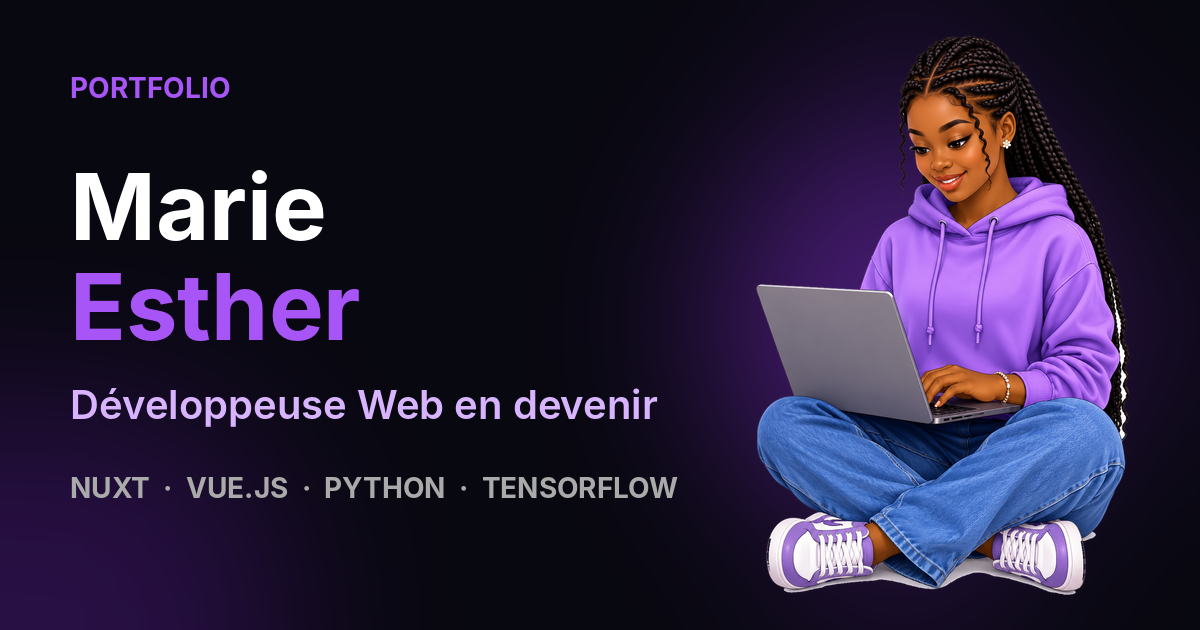
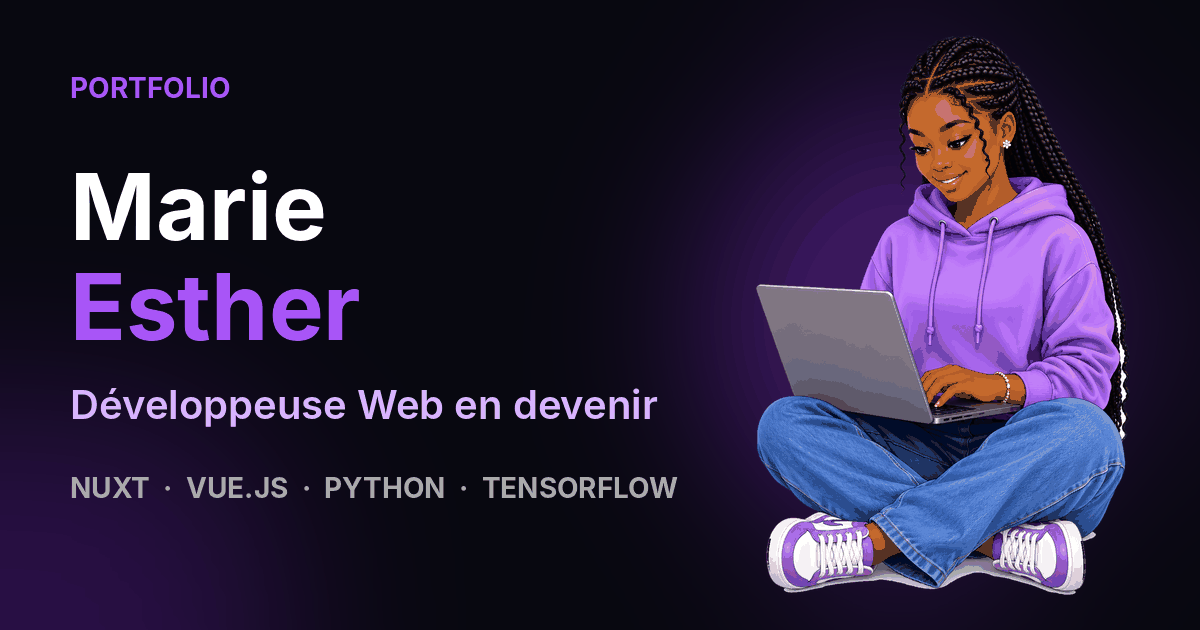
Image d'aperçu allégée

diff --git a/style.css b/style.css
@@ -1,3 +1,5 @@
+@import url('https://fonts.googleapis.com/css2?family=Kaushan+Script&display=swap');
+
 /* RÉINITIALISATION */
 * {
     margin: 0;
@@ -44,6 +46,7 @@ header {
     display: flex;
     gap: 30px;
     list-style: none;
+    align-items: center;
 }
 
 .nav-links a {
@@ -728,6 +731,7 @@ header {
         padding: 20px;
         display: none;
         flex-direction: column;
+        align-items: flex-start;
         gap: 20px;
     }
 
@@ -1040,23 +1044,37 @@ body::before {
     }
 }
 
-/* BOUTON DE LANGUE */
+/* SÉLECTEUR DE LANGUE FR | EN */
 
-.lang-toggle {
+.lang-switch {
+    display: flex;
+    align-items: center;
+    gap: 8px;
+}
+
+.lang-btn {
     background: transparent;
-    border: 1px solid #a855f7;
-    color: #a855f7;
-    padding: 6px 14px;
-    border-radius: 20px;
-    font-size: 14px;
+    border: none;
+    border-bottom: 2px solid transparent;
+    color: #ccc;
+    font-size: 15px;
     font-weight: bold;
     cursor: pointer;
+    padding: 4px 2px;
     transition: 0.3s;
 }
 
-.lang-toggle:hover {
-    background: #a855f7;
-    color: white;
+.lang-btn:hover {
+    color: #a855f7;
+}
+
+.lang-btn.active {
+    color: #a855f7;
+    border-bottom-color: #a855f7;
+}
+
+.lang-sep {
+    color: #555;
 }
 
 /* ICÔNES DES RÉSEAUX SOCIAUX */
@@ -1079,4 +1097,25 @@ body::before {
     border-color: #a855f7;
     transform: translateY(-3px);
     box-shadow: 0 0 20px rgba(168, 85, 247, 0.4);
+}
+
+/* LOGO MANUSCRIT */
+
+.logo,
+.footer .logo {
+    font-family: 'Kaushan Script', cursive;
+    font-size: 34px;
+    font-weight: normal;
+    color: #a855f7;
+}
+
+.logo span {
+    display: none;
+}
+
+.logo::after {
+    content: " 💜";
+    font-family: 'Segoe UI Emoji', 'Apple Color Emoji', 'Noto Color Emoji', sans-serif;
+    font-size: 0.6em;
+    vertical-align: middle;
 }
